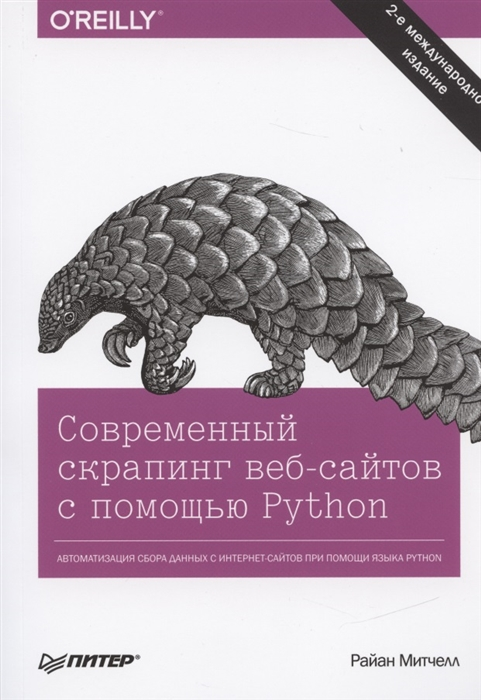
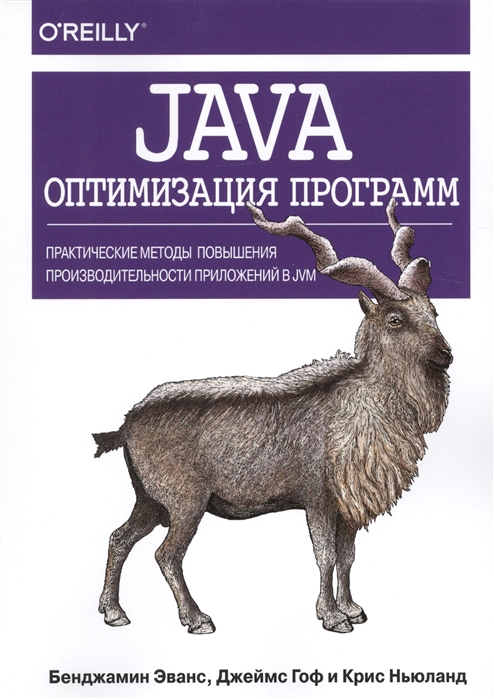
Создание страницы с тестами

diff --git a/src/components/tests-page/tests-page.js b/src/components/tests-page/tests-page.js
@@ -1,0 +1,103 @@
+import React, { Component } from 'react'
+import HomePage from '../Home/home-page'
+import Footer from '../Home/footer'
+import images from '../../assets/img/2020.05.27_0.png'
+import htmlIcons from '../../assets/img/FjNi0U.jpg'
+import phpIcons from '../../assets/img/DKAylXxXoAAuloD.jpg'
+import cssIcons from '../../assets/img/maxresdefault.jpg'
+import javaScriptIcons from '../../assets/img/javscript.png'
+import SQLIcons from '../../assets/img/337413976ba30eaf07f4b138cf350c0e.png'
+import './tests-page.css'
+
+export default class TestsPage extends Component {
+    render() {
+        return (
+            <>
+                <HomePage />
+                    <div className="test__container">
+                        <div className="test-list__page">
+                            <div className="test-list__page-images">
+                                <img src={images} width="700px" />
+                            </div>
+                            <div className="test-list__page-description">
+                                <h2>Тесты на знание Web-технологий</h2>
+                                <p>Каждый тест состоит из 10-ти вопросов по определённой теме. В каждом вопросе затрагивается самые разнообразные области применения конкретного языка, чтобы максимально тщательно проверить ваш уровень знаний.</p>
+                                <span>Порядок прохождения теста:</span>
+                                <ul>
+                                    <li>1. Жмите на кнопку "Перейти к тесту" у соответствующего теста.</li>
+                                    <li>2. Отвечаете на поставленные вопросы, выбрав единственный правильный вариант.</li>
+                                    <li>3. По завершению тестирования вы увидите свой балл и количество ошибок.</li>
+                                </ul>
+                            </div>
+                            <hr style={{width: '850px', background: '#fff', marginTop: '50px'}} />
+                            <div className="ts-category__container">
+                                <div className="test-list__wrap">
+                                    <div className="test-list-image">
+                                        <img src={htmlIcons} width="250px" height="140px" />
+                                    </div>
+                                    <div className="test-list-description">
+                                        <h2>Тест по основам HTML</h2>
+                                        <p>Тест на знание основ HTML. От Вас потребуется знание основных HTML-тегов, а также грамотное их использование. Так же необходимо понимание особенностей стандарта XHTML 1.1.</p>
+                                        <button>Перейти к тесту</button>
+                                    </div>
+                                </div>
+                            </div>
+                            <hr style={{width: '850px', background: '#fff', marginTop: '50px'}} />
+                            <div className="ts-category__container">
+                                <div className="test-list__wrap">
+                                    <div className="test-list-image">
+                                        <img src={phpIcons} width="250px" height="140px" />
+                                    </div>
+                                    <div className="test-list-description">
+                                        <h2>Тест по основам PHP</h2>
+                                        <p>Данный тест проверяет Ваши знания по языку PHP. От Вас требуется знание основных конструкций PHP, работы с переменными, сессий, реализации редиректа и прочих стандартных вещей.</p>
+                                        <button>Перейти к тесту</button>
+                                    </div>
+                                </div>
+                            </div>
+                            <hr style={{width: '850px', background: '#fff', marginTop: '50px'}} />
+                            <div className="ts-category__container">
+                                <div className="test-list__wrap">
+                                    <div className="test-list-image">
+                                        <img src={cssIcons} width="250px" height="140px" />
+                                    </div>
+                                    <div className="test-list-description">
+                                        <h2>Тест по основам CSS</h2>
+                                        <p>Тест проверяет знания по основам CSS. Для успешного прохождения теста вы должны знать основные виды селекторов (их синтаксис), знать основные свойства и их возможные значения, а также знать назначение самых популярных псевдоэлементов.</p>
+                                        <button>Перейти к тесту</button>
+                                    </div>
+                                </div>
+                            </div>
+                            <hr style={{width: '850px', background: '#fff', marginTop: '50px'}} />
+                            <div className="ts-category__container">
+                                <div className="test-list__wrap">
+                                    <div className="test-list-image">
+                                        <img src={javaScriptIcons} width="250px" height="140px" />
+                                    </div>
+                                    <div className="test-list-description">
+                                        <h2>Тест по основам JavaScript</h2>
+                                        <p>Данный тест проверяет Ваши знания по языку JavaScript. Вопросы из теста затрагивают разные области применения данного языка. Очень много вопросов имеется на понимание "мелких" нюансов. В остальном же от Вас требуется знание базовых вещей: работа с переменными, основные функции JavaScript, приоритеты операций и прочее.</p>
+                                        <button>Перейти к тесту</button>
+                                    </div>
+                                </div>
+                            </div>
+                            <hr style={{width: '850px', background: '#fff', marginTop: '50px'}} />
+                            <div className="ts-category__container">
+                                <div className="test-list__wrap">
+                                    <div className="test-list-image">
+                                        <img src={SQLIcons} width="250px" height="140px" />
+                                    </div>
+                                    <div className="test-list-description">
+                                        <h2>Тест по основам SQL</h2>
+                                        <p>Данный тест проверяет Ваши знания по языку запросов SQL. Вопросы затрагивают только самые базовые знания этого языка, без какого-либо углубления. От Вас потребуется знание самых основных SQL-запросов, а также грамотное их использование.</p>
+                                        <button>Перейти к тесту</button>
+                                    </div>
+                                </div>
+                            </div>
+                        </div>
+                    </div>
+                <Footer />
+            </>
+        )
+    }
+}

diff --git a/src/components/book-page/books/book-info.js b/src/components/book-page/books/book-info.js
@@ -20,8 +20,8 @@ const data = [
     {
         "id": 2,
         "img": "/img/2837165_detail.jpg",
-        "title": "Современный скрапинг веб-сайтов с помощью Python",
-        "more details": "https://vk.com/doc-162380315_462010810?hash=a8beb34f7fd87ce038&dl=897365e930c2d63cf7",
+        "title": "Java: оптимизация программ. Практические методы повышения производительности приложений в JVM",
+        "more details": "https://vk.com/doc7608079_590786528?hash=c16896001903b2cd9c",
         description: function() {return {__html: `Если программирование напоминает волшебство, то веб-скрапинг — это очень сильное колдунство. Написав простую автоматизированную программу, можно отправлять запросы на веб-серверы, запрашивать с них данные, а затем анализировать их и извлекать необходимую информацию. Новое расширенное издание книги знакомит не только с веб-скрапингом, но и поможет собрать любого вида данные в современном Интернете.<br>
         В части I основное внимание уделено механике веб-скрапинга: как с помощью Python запрашивать информацию с веб-сервера, производить базовую обработку серверного отклика и организовать автоматизированное взаимодействие с сайтами. В части II исследованы более специфичные инструменты и приложения, которые пригодятся при любом сценарии веб-скрапинга.<br>
         - Разбирайте сложные HTML-страницы. <br>
@@ -35,7 +35,7 @@ const data = [
         - Используйте и пишите программы для преобразования изображений в текст.<br>
         - Учитесь обходить скрапинговые ловушки и блокаторы ботов.<br>
         - Протестируйте собственный сайт с помощью скрапинга.`}},
-        "author": "Митчелл Р."
+        "author": "Эванс Б., Гоф Дж., Ньюланд К."
     },
     {
         "id": 3,

diff --git a/src/components/tests-page/tests-page.css b/src/components/tests-page/tests-page.css
@@ -1,0 +1,70 @@
+.test-list__page {
+    width: 1100px;
+    margin: auto;
+}
+.test-list__page-images {
+    padding-top: 20px;
+    text-align: center;
+}
+.test-list__page-description h2 {
+    text-align: center;
+    font-weight: 700;
+    font-size: 1.75rem;
+    color: #dad8de;
+    margin-bottom: 10px;
+}
+.test-list__page-description p {
+    text-align: center;
+    color: #dad8de;
+    font-size: 1.30rem;
+    max-width: 857px;
+    line-height: 30px;
+    margin: 20px auto;
+}
+.test-list__page-description span, .test-list__page-description ul li {
+    text-align: left;
+    display: block;
+    color: #dad8de;
+    font-size: 1.30rem;
+    max-width: 857px;
+    margin: 50px auto 0;
+}
+.test-list__page-description ul li {
+    margin: 20px auto 0;
+}
+.test-list-image img {
+    border-radius: 5px;
+    margin-right: 50px;
+}
+.test-list__wrap {
+    width: 850px;
+    margin: auto;
+    display: flex;
+    justify-content: space-between;
+    padding-top: 20px;
+}
+.test-list-description h2 {
+    font-weight: 700;
+    font-size: 1.10rem;
+    color: #dad8de;
+}
+.test-list-description p {
+    color: #dad8de;
+    padding-top: 15px;
+    font-size: 1rem;
+    max-width: 857px;
+    line-height: 22px;
+}
+.test-list-description button {
+    color: #dad8de;
+    border-radius: 2px;
+    padding: 5px 20px;
+    border: 1px solid #944fff;
+    outline: none;
+    background-image: linear-gradient(134deg,#944fff 0,#af00ed 100%);
+    font-weight: 700;
+    margin-top: 14px;
+}
+.ts-category__container:last-child {
+    padding-bottom: 50px;
+}

diff --git a/src/components/app/app.js b/src/components/app/app.js
@@ -2,6 +2,7 @@ import React, { Component } from 'react'
 import {Route, Switch} from 'react-router-dom'
 import CategoryBlock from '../category-block'
 import BookPage from '../book-page/book-page'
+import TestsPage from '../tests-page/tests-page'
 import ProductPage from '../book-page/product-page'
 
 export default class App extends Component {
@@ -10,6 +11,7 @@ export default class App extends Component {
             <Switch>
                 <Route path="/" exact component={CategoryBlock} />
                 <Route path="/books" exact component={BookPage} />
+                <Route path="/tests" exact component={TestsPage} />
                 <Route path="/books/:id" exact component={ProductPage} />
             </Switch>
         )

diff --git a/src/components/book-page/books/books-list.js b/src/components/book-page/books/books-list.js
@@ -8,8 +8,8 @@ const data = [
     {
         "id": 2,
         "img": "/img/2837165_detail.jpg",
-        "title": "Современный скрапинг веб-сайтов с помощью Python",
-        "more details": "https://vk.com/doc-162380315_462010810?hash=a8beb34f7fd87ce038&dl=897365e930c2d63cf7"
+        "title": "Java: оптимизация программ. Практические методы повышения производительности приложений в JVM",
+        "more details": "https://vk.com/doc7608079_590786528?hash=c16896001903b2cd9c"
     },
     {
         "id": 3,

diff --git a/src/components/Home/home-page/home-page.js b/src/components/Home/home-page/home-page.js
@@ -35,6 +35,9 @@ export default class HomePage extends Component {
                                 <li>
                                     <NavLink to="/books" className="menu__link">Книги</NavLink>
                                 </li>
+                                <li>
+                                    <NavLink to="/tests" className="menu__link">Тесты</NavLink>
+                                </li>
                             </ul>
                         </nav>
                     </div>

diff --git a/src/components/book-page/book-page/book-page.css b/src/components/book-page/book-page/book-page.css
@@ -1,4 +1,4 @@
-.container_books, .product_card_detail {
+.container_books, .product_card_detail, .test__container {
     background: #392e5c;
     margin-top: 5px;
 }

diff --git a/src/components/tests-page/index.js b/src/components/tests-page/index.js
@@ -1,0 +1,2 @@
+import TestsPage from './tests-page'
+export default TestsPage
